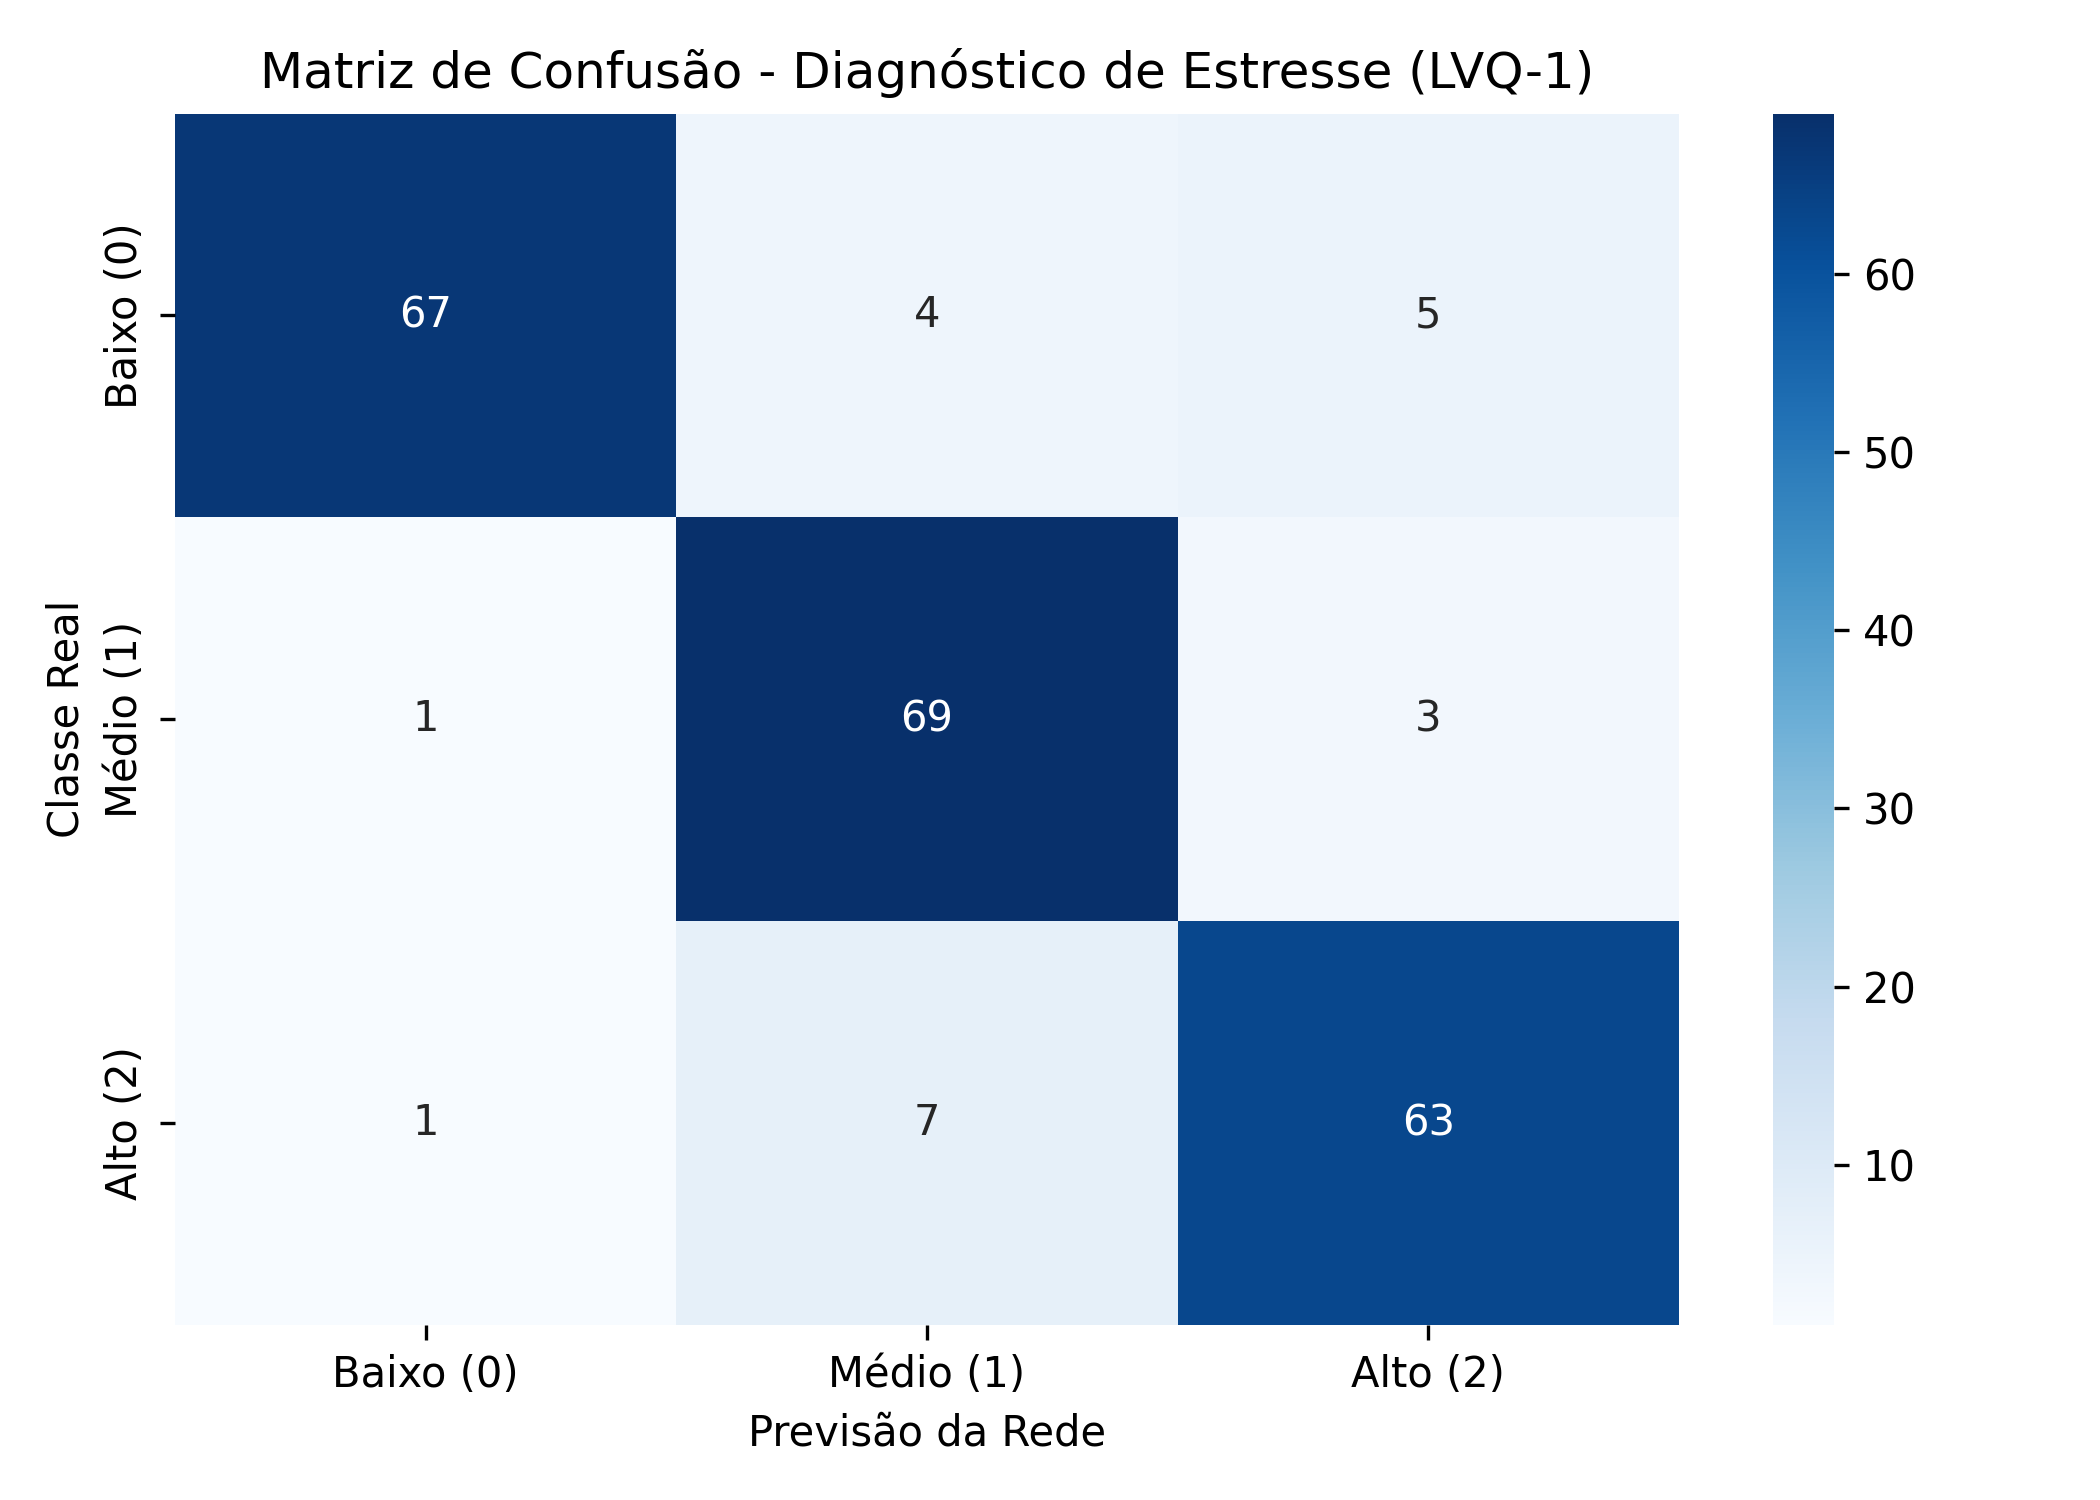
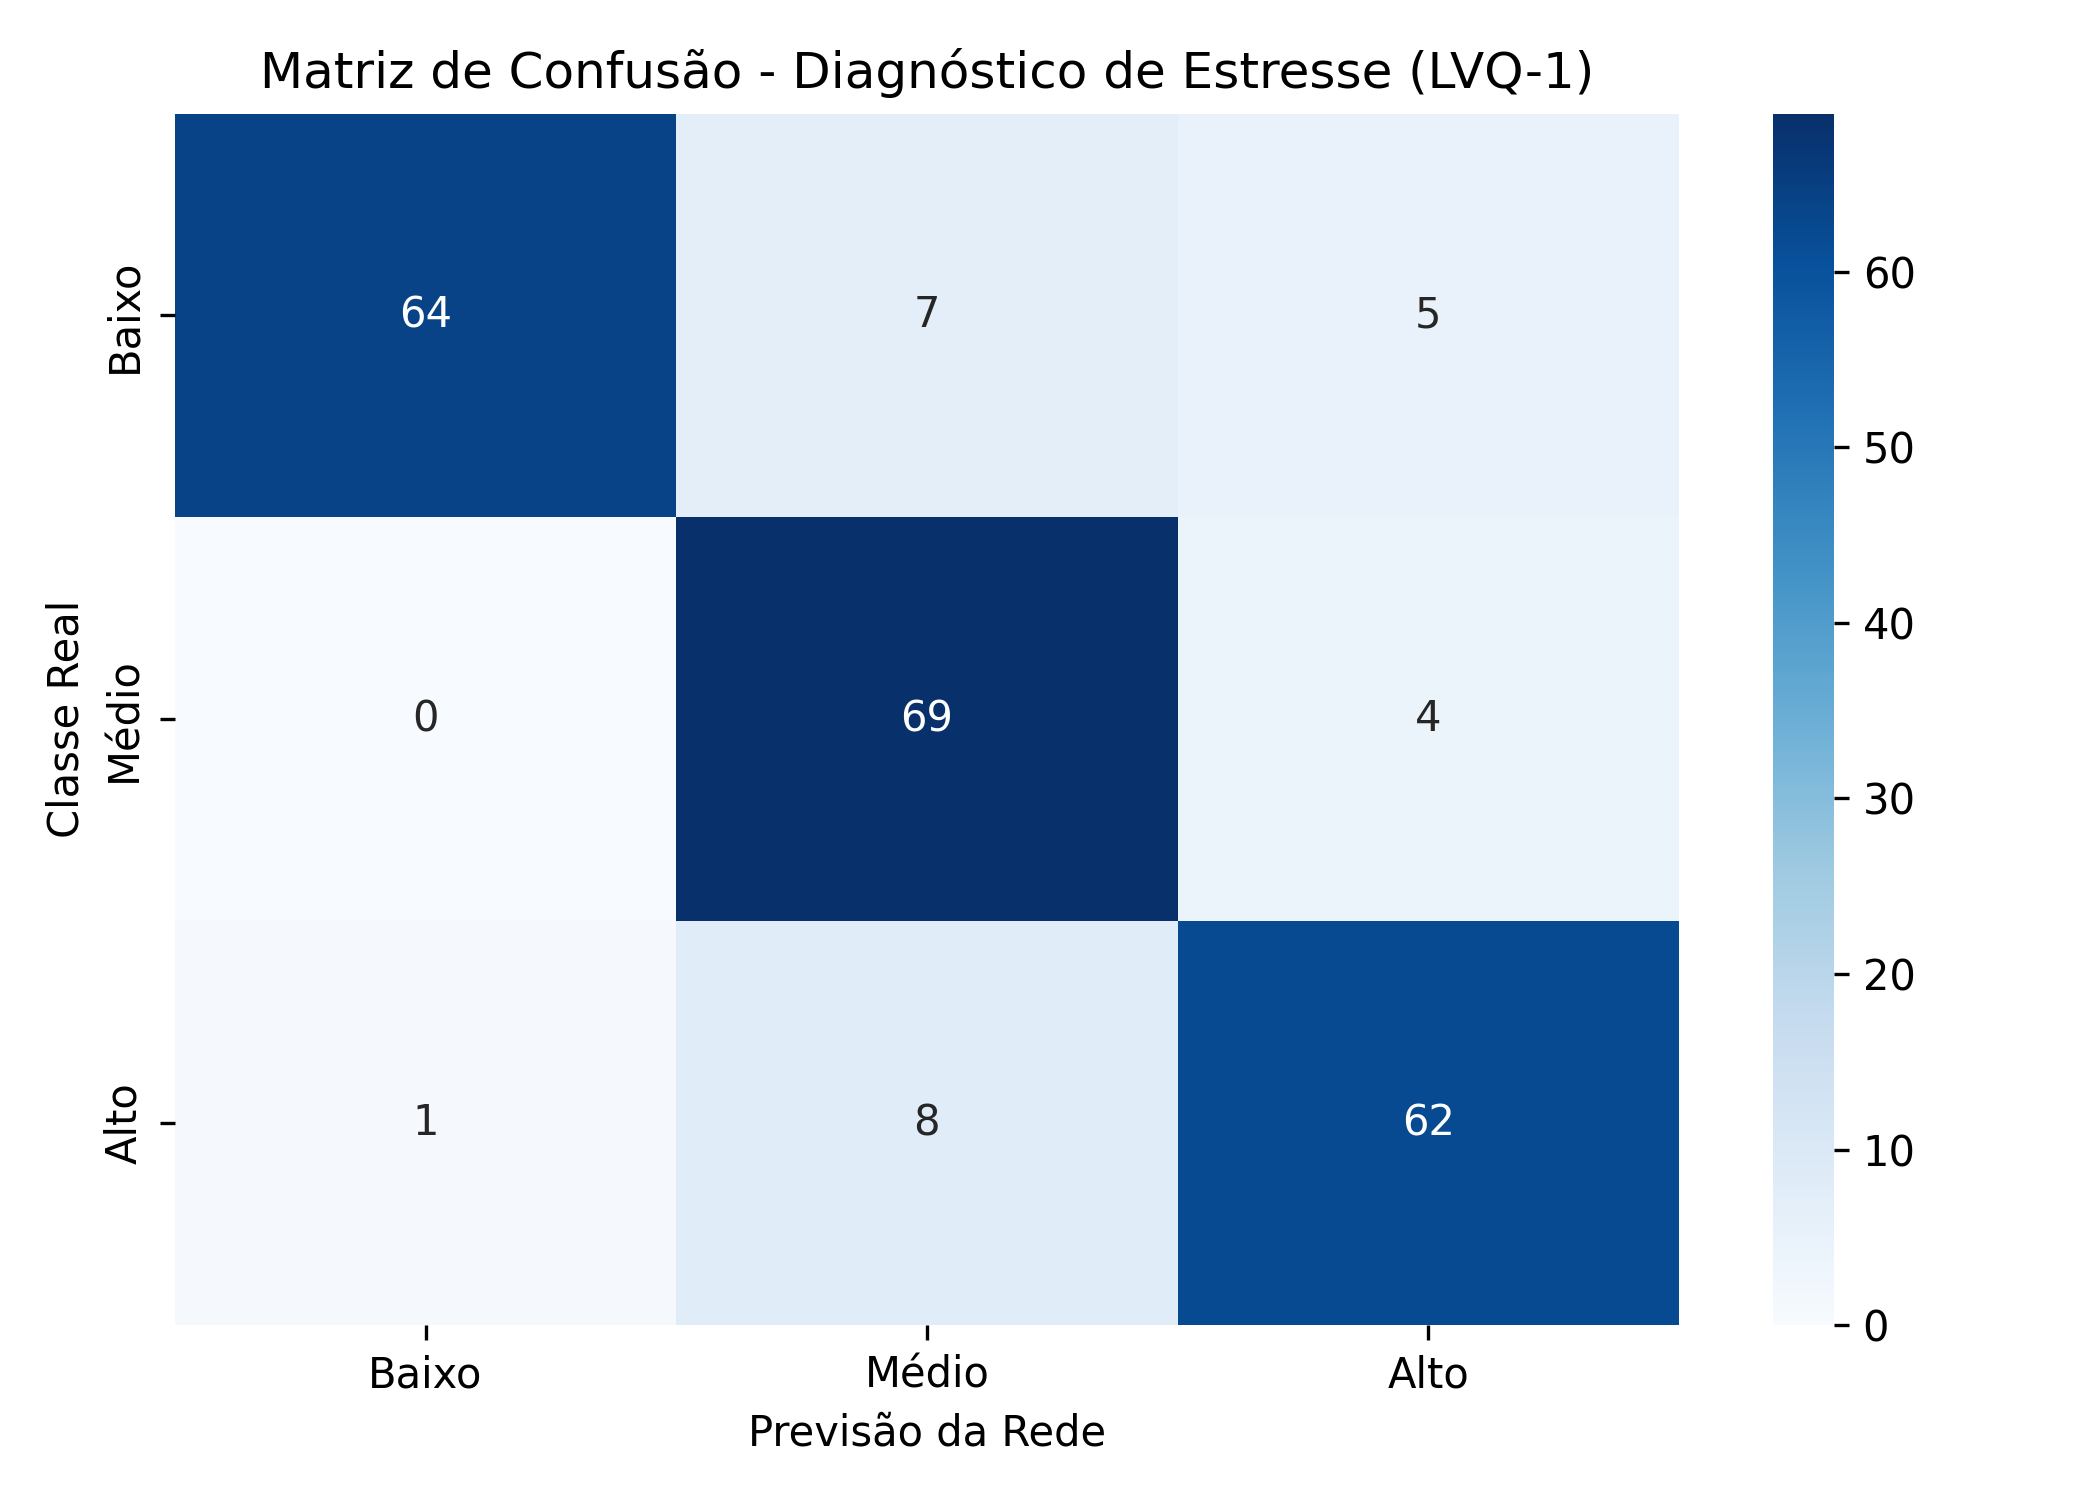
atualiza solve_lvq para exibir tabela de diagnostico de 50 alunos

diff --git a/solve_lvq.py b/solve_lvq.py
@@ -10,18 +10,14 @@ from lvq import LVQ1Net
 
 def executar_e_gerar_graficos():
     print("=== ETAPA 1: Carregamento e Pré-processamento ===")
-    # 1. Carrega o dataset
     df = pd.read_csv('StressLevelDataset.csv')
     
-    # Separa os recursos (20 primeiras colunas) e o alvo (última coluna)
     X = df.iloc[:, :-1].values
     y = df['stress_level'].values
     
-    # 2. Normalização (CRUCIAL para distância Euclidiana)
     scaler = MinMaxScaler()
     X_scaled = scaler.fit_transform(X)
     
-    # 3. Divisão: 80% Treino (880 alunos) e 20% Teste (220 alunos inéditos)
     X_train, X_test, y_train, y_test = train_test_split(X_scaled, y, test_size=0.2, random_state=42)
     print(f"Alunos para Treino: {len(X_train)} | Alunos para Teste: {len(X_test)}")
 
@@ -33,17 +29,35 @@ def executar_e_gerar_graficos():
     print("\n=== ETAPA 3: Inferência e Resultados ===")
     y_pred = lvq.predict(X_test)
     acuracia = accuracy_score(y_test, y_pred)
-    print(f"-> Acurácia Global nos dados inéditos: {acuracia * 100:.2f}%")
+    print(f"-> Acurácia Global nos dados inéditos: {acuracia * 100:.2f}%\n")
+
+    # --- NOVA PARTE: MOSTRAR DIAGNÓSTICO DE 50 ALUNOS ---
+    print("=== EXEMPLO DE DIAGNÓSTICO PREVENTIVO (50 ALUNOS) ===")
+    print(f"{'ID':<5} | {'Ansiedade (0-21)':<16} | {'Sono (1-5)':<10} | {'Status Real':<12} | {'Diagnóstico IA':<15}")
+    print("-" * 70)
+    
+    X_test_real = scaler.inverse_transform(X_test)
+    mapeamento = {0: "Baixo", 1: "Médio", 2: "Alto"}
+    
+    for i in range(50):
+        ansiedade = int(X_test_real[i][0]) # Coluna 0
+        sono = int(X_test_real[i][6])      # Coluna 6
+        real_str = mapeamento[y_test[i]]
+        pred_str = mapeamento[y_pred[i]]
+        
+        # Sinaliza se a IA acertou ou errou o diagnóstico
+        checagem = "✅" if y_test[i] == y_pred[i] else "❌"
+        
+        print(f"#{i+1:<4} | {ansiedade:<16} | {sono:<10} | {real_str:<12} | {pred_str:<15} {checagem}")
+    print("-" * 70)
+    # ----------------------------------------------------
 
     print("\n=== ETAPA 4: Gerando Gráficos para Apresentação ===")
-    
-    # GRÁFICO 1: Matriz de Confusão
-    # Mostra exatamente onde a rede acertou e onde confundiu os níveis de estresse
     cm = confusion_matrix(y_test, y_pred)
     plt.figure(figsize=(7, 5))
     sns.heatmap(cm, annot=True, fmt='d', cmap='Blues', 
-                xticklabels=['Baixo (0)', 'Médio (1)', 'Alto (2)'], 
-                yticklabels=['Baixo (0)', 'Médio (1)', 'Alto (2)'])
+                xticklabels=['Baixo', 'Médio', 'Alto'], 
+                yticklabels=['Baixo', 'Médio', 'Alto'])
     plt.title('Matriz de Confusão - Diagnóstico de Estresse (LVQ-1)')
     plt.ylabel('Classe Real')
     plt.xlabel('Previsão da Rede')
@@ -51,21 +65,12 @@ def executar_e_gerar_graficos():
     plt.savefig('matriz_confusao.png', dpi=300)
     print("-> 'matriz_confusao.png' salvo com sucesso!")
 
-    # GRÁFICO 2: Dispersão 2D (Ansiedade vs Qualidade do Sono)
-    # Mostra os clusters de alunos no espaço bidimensional com os pesos protótipos da rede
     plt.figure(figsize=(8, 6))
-    
-    # Plota os alunos do teste (desnormalizando apenas para o gráfico ficar com os valores reais)
-    X_test_real = scaler.inverse_transform(X_test)
-    idx_ansiedade = 0 # anxiety_level é a coluna 0
-    idx_sono = 6      # sleep_quality é a coluna 6
-    
-    sns.scatterplot(x=X_test_real[:, idx_ansiedade], y=X_test_real[:, idx_sono], 
+    sns.scatterplot(x=X_test_real[:, 0], y=X_test_real[:, 6], 
                     hue=y_pred, palette=['green', 'orange', 'red'], alpha=0.6, s=50)
     
-    # Plota onde os "neurônios vencedores" pararam (desnormalizados)
     Pesos_Reais = scaler.inverse_transform(lvq.W)
-    plt.scatter(Pesos_Reais[:, idx_ansiedade], Pesos_Reais[:, idx_sono], 
+    plt.scatter(Pesos_Reais[:, 0], Pesos_Reais[:, 6], 
                 c='black', marker='X', s=200, label='Protótipos (Pesos LVQ)')
     
     plt.title('Separação de Perfis: Ansiedade vs Qualidade do Sono')